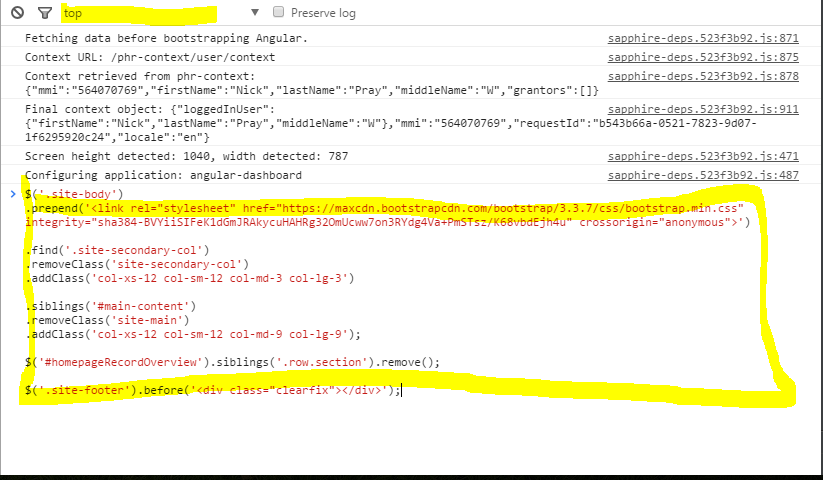
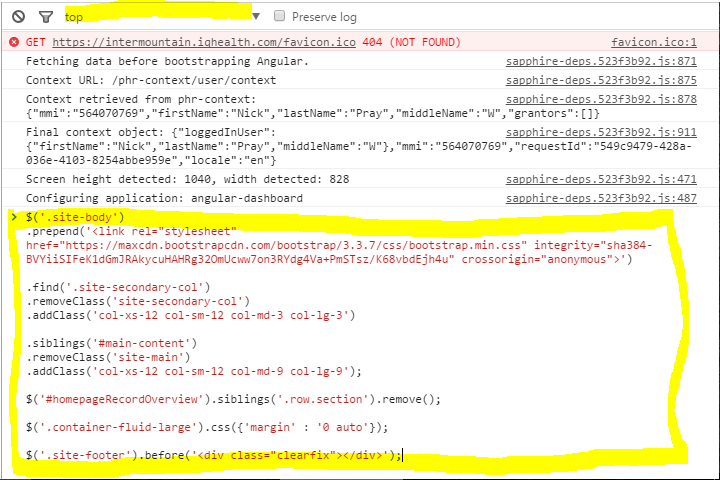
Updates top fix image and formats top fix text area so it matches image format.

diff --git a/app/pages/my_health/my_health.controller.js b/app/pages/my_health/my_health.controller.js
@@ -4,7 +4,7 @@ angular.module('app')
     'MyHealthController',
     function()
     {
-        this.top_fix = "$('.site-body').prepend('<link rel=\"stylesheet\" href=\"https://maxcdn.bootstrapcdn.com/bootstrap/3.3.7/css/bootstrap.min.css\" integrity=\"sha384-BVYiiSIFeK1dGmJRAkycuHAHRg32OmUcww7on3RYdg4Va+PmSTsz/K68vbdEjh4u\" crossorigin=\"anonymous\">').find('.site-secondary-col').removeClass('site-secondary-col').addClass('col-xs-12 col-sm-12 col-md-3 col-lg-3').siblings('#main-content').removeClass('site-main').addClass('col-xs-12 col-sm-12 col-md-9 col-lg-9');$('#homepageRecordOverview').siblings('.row.section').remove();$('.container-fluid-large').css({'margin' : '0 auto'});$('.site-footer').before('<div class=\"clearfix\"></div>');";
+        this.top_fix = "$('.site-body').prepend('<link rel=\"stylesheet\" href=\"https://maxcdn.bootstrapcdn.com/bootstrap/3.3.7/css/bootstrap.min.css\" integrity=\"sha384-BVYiiSIFeK1dGmJRAkycuHAHRg32OmUcww7on3RYdg4Va+PmSTsz/K68vbdEjh4u\" crossorigin=\"anonymous\">')\n\n.find('.site-secondary-col')\n.removeClass('site-secondary-col')\n.addClass('col-xs-12 col-sm-12 col-md-3 col-lg-3')\n\n.siblings('#main-content')\n.removeClass('site-main')\n.addClass('col-xs-12 col-sm-12 col-md-9 col-lg-9');\n\n$('#homepageRecordOverview').siblings('.row.section').remove();\n\n$('.container-fluid-large').css({'margin' : '0 auto'});\n\n$('.site-footer').before('<div class=\"clearfix\"></div>');";
         this.iframe_fix = "$('#angular-dashboard').attr('style', 'width: 100%');";
 
         function escapeHtml(str) {

diff --git a/app/pages/my_health/my_health.html b/app/pages/my_health/my_health.html
@@ -140,7 +140,7 @@
             <hr>
 
             <img style="max-width: 600px; margin:0 auto; display:block;" src="/assets/images/my_health/top-fix.PNG"/>
-            <textarea class="form-control" style="max-width: 600px; min-width: 600px; min-height: 195px;  margin:0 auto; display:block; margin-top: 25px;" ng-model="MyHealth.top_fix"></textarea>
+            <textarea class="form-control" style="max-width: 600px; min-width: 600px; min-height: 400px;  margin:0 auto; display:block; margin-top: 25px;" ng-model="MyHealth.top_fix"></textarea>
 
         </div>
 
